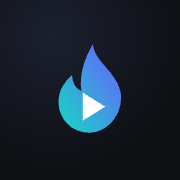
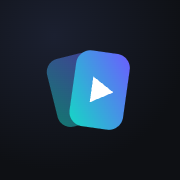
Owner-only TMDB key, Netflix privacy notice, new brand mark, decluttered UI
- Hosted mode: TMDB key comes only from TMDB_API_KEY; visitors can't see, set or
  replace it or force rebuilds; server refreshes catalog weekly and trending daily
- Privacy notice on the welcome screen and Sync from Netflix sheet: no Netflix
  credentials are asked for, seen or stored
- New logo (stacked cards + play) replaces the flame; two-weight wordmark; new icons
- Declutter: 3 tabs, Today's picks in the top bar, 3 action buttons (rewind only
  when there is something to undo), key legend removed
- About & credits sheet carries the TMDB attribution
- Tests: 56 passing

Changed region(s): [[0.25, 0.25, 0.7222, 0.75]]

diff --git a/public/index.html b/public/index.html
@@ -20,7 +20,7 @@
     <!-- Hosted mode: unlock with your access code -->
     <section class="welcome" id="lock" hidden>
       <div class="welcome-inner">
-        <div class="welcome-logo"><svg class="logo-mark" viewBox="0 0 24 24"><use href="#i-spark"/></svg><span>swipeflick</span></div>
+        <div class="welcome-logo"><svg class="logo-mark" viewBox="0 0 24 24"><use href="#i-spark"/></svg><span>Swipe<b>Flick</b></span></div>
         <p class="welcome-tagline">Enter your access code</p>
         <form class="welcome-actions" id="lock-form">
           <input class="lock-input" id="lock-code" type="password" autocomplete="current-password" placeholder="Access code" aria-label="Access code" required>
@@ -33,7 +33,7 @@
     <!-- Welcome / login (Tinder's gradient sign-in screen) -->
     <section class="welcome" id="welcome" hidden>
       <div class="welcome-inner">
-        <div class="welcome-logo"><svg class="logo-mark" viewBox="0 0 24 24"><use href="#i-spark"/></svg><span>swipeflick</span></div>
+        <div class="welcome-logo"><svg class="logo-mark" viewBox="0 0 24 24"><use href="#i-spark"/></svg><span>Swipe<b>Flick</b></span></div>
         <p class="welcome-tagline">Swipe right on your next binge.</p>
         <div class="welcome-actions">
           <button class="pill pill-white" id="welcome-netflix">Log in with Netflix</button>
@@ -46,13 +46,14 @@
           <p>A normal browser window opens on netflix.com. You sign in and pick your profile there — SwipeFlick never sees your password. It then reads your <b>Viewing activity</b> page and closes the window. Everything stays on this computer.</p>
           <p>Prefer not to? On netflix.com go to <b>Account → Profiles → (your profile) → Viewing activity → Download all</b>, then upload the <code>NetflixViewingHistory.csv</code> file here.</p>
         </details>
+        <p class="privacy-note" id="welcome-privacy"><b>Your Netflix password is never asked for, seen or stored by SwipeFlick.</b> You sign in on netflix.com itself. We keep only the titles and dates from your viewing activity, to tailor your recommendations. “Reset everything” in Profile deletes them.</p>
         <p class="welcome-fine">By swiping you agree to find something great to watch tonight.</p>
       </div>
     </section>
 
     <header class="topbar">
-      <button class="icon-btn" id="btn-reset" aria-label="Reset swipes" title="Reset swipes"><svg viewBox="0 0 24 24"><use href="#i-reset"/></svg></button>
-      <div class="logo"><svg class="logo-mark" viewBox="0 0 24 24"><use href="#i-spark"/></svg><span>swipeflick</span></div>
+      <button class="icon-btn" id="btn-daily" aria-label="Today's picks" title="Today's picks"><svg viewBox="0 0 24 24"><use href="#i-today"/></svg></button>
+      <div class="logo"><svg class="logo-mark" viewBox="0 0 24 24"><use href="#i-spark"/></svg><span>Swipe<b>Flick</b></span></div>
       <button class="icon-btn" id="btn-filters" aria-label="Discovery settings" title="Discovery settings"><svg viewBox="0 0 24 24"><use href="#i-sliders"/></svg></button>
     </header>
 
@@ -75,21 +76,16 @@
         <div class="actions" id="actions">
           <button class="act act-sm act-rewind" data-action="rewind" aria-label="Rewind" title="Rewind (Backspace)"><svg viewBox="0 0 24 24"><use href="#i-rewind"/></svg></button>
           <button class="act act-lg act-nope" data-action="nope" aria-label="Nope" title="Nope (←)"><svg viewBox="0 0 24 24"><use href="#i-nope"/></svg></button>
-          <button class="act act-sm act-super" data-action="super" aria-label="Must watch" title="Must watch (Enter)"><svg viewBox="0 0 24 24"><use href="#i-star"/></svg></button>
-          <button class="act act-lg act-like" data-action="like" aria-label="Like" title="Like (→)"><svg viewBox="0 0 24 24"><use href="#i-heart"/></svg></button>
           <button class="act act-sm act-lucky" data-action="lucky" aria-label="I'm feeling lucky" title="I'm feeling lucky (L)"><svg viewBox="0 0 24 24"><use href="#i-lucky"/></svg></button>
+          <button class="act act-lg act-like" data-action="like" aria-label="Like" title="Like (→)"><svg viewBox="0 0 24 24"><use href="#i-heart"/></svg></button>
           <div class="coach" id="coach" hidden>✨ <b>I'm feeling lucky</b> — one great pick, right now</div>
-        </div>
-        <div class="keys" aria-hidden="true">
-          <span><kbd>←</kbd> Nope</span><span><kbd>→</kbd> Like</span><span><kbd>↵</kbd> Must watch</span>
-          <span><kbd>↑</kbd> Open info</span><span><kbd>↓</kbd> Close info</span><span><kbd>Space</kbd> Next page</span>
-          <span><kbd>⌫</kbd> Rewind</span><span><kbd>L</kbd> Feeling lucky</span>
         </div>
       </section>
 
       <!-- Today's picks -->
       <section class="view view-daily" id="view-daily" hidden>
         <div class="view-head">
+          <button class="icon-btn" id="daily-back" aria-label="Back to swiping" title="Back"><svg viewBox="0 0 24 24" style="transform: rotate(90deg)"><use href="#i-down"/></svg></button>
           <h1>Today's picks</h1>
           <span class="muted" id="daily-date"></span>
         </div>
@@ -138,13 +134,15 @@
         <div class="panel">
           <h2>Catalog</h2>
           <p class="muted" id="catalog-info"></p>
-          <label class="field">
-            <span>TMDB API key <a href="https://www.themoviedb.org/settings/api" target="_blank" rel="noopener">get one free</a></span>
-            <input type="password" id="tmdb-key" placeholder="Paste your TMDB API key or read access token" autocomplete="off">
-          </label>
-          <div class="row-btns">
-            <button class="pill pill-brand pill-sm" id="tmdb-save">Save key</button>
-            <button class="pill pill-outline pill-sm" id="catalog-refresh">Refresh catalog</button>
+          <div id="tmdb-setup">
+            <label class="field">
+              <span>TMDB API key <a href="https://www.themoviedb.org/settings/api" target="_blank" rel="noopener">get one free</a></span>
+              <input type="password" id="tmdb-key" placeholder="Paste your TMDB API key or read access token" autocomplete="off">
+            </label>
+            <div class="row-btns">
+              <button class="pill pill-brand pill-sm" id="tmdb-save">Save key</button>
+              <button class="pill pill-outline pill-sm" id="catalog-refresh">Refresh catalog</button>
+            </div>
           </div>
           <div class="sync-status" id="catalog-status" hidden></div>
         </div>
@@ -153,13 +151,12 @@
           <button class="danger-row" id="reset-swipes">Reset all swipes</button>
           <button class="danger-row" id="reset-all">Reset everything &amp; log out of Netflix</button>
         </div>
-        <p class="footnote">Ratings from IMDb non-commercial datasets. Catalog data from TMDB. Not affiliated with Netflix, IMDb or Tinder.</p>
+        <p class="footnote"><button class="link" id="open-about">About &amp; credits</button></p>
       </section>
     </main>
 
     <nav class="tabbar" id="tabbar">
       <button class="tab on" data-tab="discover" aria-label="Discover"><svg viewBox="0 0 24 24"><use href="#i-spark"/></svg></button>
-      <button class="tab" data-tab="daily" aria-label="Today's picks"><svg viewBox="0 0 24 24"><use href="#i-today"/></svg></button>
       <button class="tab" data-tab="likes" aria-label="Likes"><svg viewBox="0 0 24 24"><use href="#i-likes"/></svg><span class="badge" id="likes-badge" hidden></span></button>
       <button class="tab" data-tab="profile" aria-label="Profile"><svg viewBox="0 0 24 24"><use href="#i-user"/></svg></button>
     </nav>
@@ -196,6 +193,23 @@
       </div>
     </div>
 
+    <!-- About & credits (data-source attribution) -->
+    <div class="sheet" id="sheet-about" role="dialog" aria-modal="true" aria-labelledby="about-title" hidden>
+      <div class="sheet-backdrop" data-close></div>
+      <div class="sheet-body">
+        <div class="sheet-head"><span></span><h2 id="about-title">About &amp; credits</h2><button class="link link-brand" data-close>Done</button></div>
+        <div class="about">
+          <h3>Catalog, posters and trending</h3>
+          <p>This product uses the TMDB API but is not endorsed or certified by TMDB. Titles, posters, cast, keywords and what is trending come from <a href="https://www.themoviedb.org" target="_blank" rel="noopener">The Movie Database</a>.</p>
+          <h3>Ratings</h3>
+          <p>IMDb ratings come from IMDb's <a href="https://developer.imdb.com/non-commercial-datasets/" target="_blank" rel="noopener">non-commercial datasets</a>, for personal use.</p>
+          <h3>Your data</h3>
+          <p>SwipeFlick never asks for, sees or stores your Netflix email or password. It keeps only the titles and dates from your viewing activity, plus your swipes. “Reset everything” in Profile deletes them.</p>
+          <p class="muted">SwipeFlick is not affiliated with Netflix, IMDb or TMDB.</p>
+        </div>
+      </div>
+    </div>
+
     <!-- Sync from Netflix on a phone: the bookmark -->
     <div class="sheet" id="sheet-sync" role="dialog" aria-modal="true" aria-labelledby="sync-title" hidden>
       <div class="sheet-backdrop" data-close></div>
@@ -211,7 +225,7 @@
           <a class="pill pill-outline pill-sm" id="sync-open" href="https://www.netflix.com/viewingactivity" target="_blank" rel="noopener">Open viewing activity</a>
         </div>
         <textarea class="sync-code" id="sync-code" readonly rows="3" aria-label="Bookmark address"></textarea>
-        <p class="muted sync-note">Your Netflix password stays on netflix.com. The bookmark only reads the viewing list and hands it to this app.</p>
+        <p class="privacy-note privacy-note-sheet"><b>We don't store your Netflix login.</b> The bookmark runs inside your own browser, where you are already signed in to Netflix. It reads only your viewing list (titles and dates) and hands that to SwipeFlick. Your email and password never leave netflix.com, and the app can't see them. “Reset everything” in Profile deletes the list.</p>
       </div>
     </div>
 
@@ -235,7 +249,7 @@
     <defs>
       <linearGradient id="g-brand" x1="0" y1="1" x2="1" y2="0"><stop offset="0" stop-color="#14d9c4"/><stop offset="1" stop-color="#6c5cff"/></linearGradient>
     </defs>
-    <symbol id="i-spark" viewBox="0 0 24 24"><path style="fill: var(--spark-fill, currentColor)" d="M12.6 1.8c.4 3 3 4.9 4.6 7.2 1.4 2 2 3.9 1.6 6.1-.6 3.5-3.6 6.4-7 6.4-3.8 0-6.8-3-6.8-6.8 0-2.6 1.3-4.5 3-6 .1 1.7.8 3 2.1 3.6-.6-3.6.7-7.3 2.5-10.5z"/><path style="fill: var(--spark-play, #0e1014)" d="M10.4 12.6v6.2l5-3.1z"/></symbol>
+    <symbol id="i-spark" viewBox="0 0 24 24"><g transform="rotate(-14 10 12)"><rect x="3.5" y="4" width="11" height="15.5" rx="3" style="fill: var(--spark-fill, currentColor)" opacity=".5"/></g><g transform="rotate(8 14 13)"><rect x="8" y="3.5" width="12" height="17" rx="3.2" style="fill: var(--spark-fill, currentColor)"/><path style="fill: var(--spark-play, #0e1014)" d="M12.2 9.2v5.8l4.9-2.9z"/></g></symbol>
     <symbol id="i-nope" viewBox="0 0 24 24"><path d="M6 6l12 12M18 6L6 18" fill="none" stroke="currentColor" stroke-width="3.2" stroke-linecap="round"/></symbol>
     <symbol id="i-heart" viewBox="0 0 24 24"><path fill="currentColor" d="M12 21s-7.5-4.6-9.6-9.2C.9 8.4 3 4.5 6.8 4.5c2.2 0 3.6 1.2 5.2 3 1.6-1.8 3-3 5.2-3 3.8 0 5.9 3.9 4.4 7.3C19.5 16.4 12 21 12 21z"/></symbol>
     <symbol id="i-star" viewBox="0 0 24 24"><path fill="currentColor" d="M12 2.8l2.8 5.9 6.4.8-4.7 4.4 1.2 6.4L12 17.2l-5.7 3.1 1.2-6.4L2.8 9.5l6.4-.8z"/></symbol>

diff --git a/public/app.css b/public/app.css
@@ -34,6 +34,8 @@ a { color: var(--brand-a); }
 /* ---------- top bar ---------- */
 .topbar { display: flex; align-items: center; justify-content: space-between; padding: calc(10px + env(safe-area-inset-top)) 14px 6px; flex: none; }
 .logo, .welcome-logo { display: flex; align-items: center; gap: 4px; font-weight: 800; font-size: 26px; letter-spacing: -1px; }
+.logo span b { font-weight: 800; }
+.logo span, .welcome-logo span { font-weight: 500; }
 .logo span { background: var(--brand); -webkit-background-clip: text; background-clip: text; color: transparent; }
 .logo-mark { width: 30px; height: 30px; color: var(--brand-a); }
 .logo .logo-mark, .tab.on[data-tab="discover"] svg { --spark-fill: url(#g-brand); }
@@ -119,6 +121,8 @@ h2 { font-size: 13px; text-transform: uppercase; letter-spacing: .8px; color: va
 .act:hover { transform: scale(1.08); }
 .act:active, .act.pressed { transform: scale(.9); }
 .act:disabled { opacity: .35; pointer-events: none; }
+.act-rewind { position: absolute; left: 16px; top: 50%; margin-top: -11px; width: 44px; height: 44px; }
+.act-rewind:disabled { opacity: 0; } /* only there when there is something to undo */
 .act-rewind { color: var(--rewind); }
 .act-nope { color: var(--nope); }
 .act-super { color: var(--super); }
@@ -131,13 +135,12 @@ h2 { font-size: 13px; text-transform: uppercase; letter-spacing: .8px; color: va
 .act-like.lit { background: var(--like); }
 .act-lucky.lit { background: var(--lucky); }
 .coach {
-  position: absolute; bottom: calc(100% - 4px); right: 4px; background: var(--lucky); color: #fff; font-size: 13px; padding: 8px 12px;
+  position: absolute; bottom: calc(100% - 4px); left: 0; right: 0; margin: 0 auto; width: max-content; background: var(--lucky); color: #fff; font-size: 13px; padding: 8px 12px;
   border-radius: 10px; box-shadow: 0 6px 20px rgba(0, 0, 0, .4); animation: bob 1.6s ease-in-out infinite; white-space: nowrap; z-index: 10;
 }
-.coach::after { content: ""; position: absolute; top: 100%; right: 22px; border: 7px solid transparent; border-top-color: var(--lucky); }
+.coach::after { content: ""; position: absolute; top: 100%; left: 50%; margin-left: -7px; border: 7px solid transparent; border-top-color: var(--lucky); }
 @keyframes bob { 50% { transform: translateY(-4px); } }
 
-.keys { display: none; }
 
 /* ---------- radar (loading / out of cards) ---------- */
 .radar { position: absolute; inset: 0; display: flex; flex-direction: column; align-items: center; justify-content: center; text-align: center; padding: 20px; }
@@ -303,7 +306,6 @@ input[role="switch"]:focus-visible, .pill:focus-visible, .act:focus-visible, .ta
   body { background: radial-gradient(circle at 50% -20%, #1a1f2b, var(--bg) 60%); }
   .app { max-width: 460px; }
   .view-discover { padding: 0 0 0; }
-  .keys { display: flex; flex-wrap: wrap; justify-content: center; gap: 6px 14px; padding: 2px 0 10px; font-size: 11px; color: var(--muted); text-transform: uppercase; letter-spacing: .6px; font-weight: 700; }
   kbd { display: inline-block; min-width: 20px; padding: 1px 5px; border-radius: 4px; background: var(--surface-2); color: var(--text); font: inherit; text-align: center; margin-right: 3px; box-shadow: 0 2px 0 #000; }
 }
 @media (max-height: 640px) {
@@ -331,3 +333,10 @@ input[role="switch"]:focus-visible, .pill:focus-visible, .act:focus-visible, .ta
 .sync-code { width: 100%; box-sizing: border-box; margin-top: 12px; border-radius: 10px; border: 1px solid var(--line); background: var(--surface-2); color: var(--muted); font: 11px/1.3 ui-monospace, monospace; padding: 8px; resize: none; }
 .sync-note { font-size: 13px; }
 #lock { z-index: 60; }
+.privacy-note { margin: 18px 0 0; padding: 10px 14px; border-radius: 12px; background: rgba(0, 0, 0, .22); font-size: 13px; line-height: 1.45; text-align: left; }
+.privacy-note-sheet { background: var(--surface-2); color: var(--text); margin: 14px 0 0; }
+.view-daily .view-head { justify-content: flex-start; }
+.view-daily .view-head h1 { flex: 1; margin: 0; }
+.about h3 { margin: 16px 0 4px; font-size: 14px; text-transform: uppercase; letter-spacing: .5px; color: var(--muted); }
+.about p { margin: 0 0 8px; line-height: 1.5; }
+.about a { color: var(--brand-a); }

diff --git a/public/app.js b/public/app.js
@@ -235,7 +235,7 @@ function paintDrag(el, dx, dy, grabTop) {
   $('.stamp-super', el).style.opacity = sup;
   $('.act-like').classList.toggle('lit', !sup && like > 0.6);
   $('.act-nope').classList.toggle('lit', !sup && nope > 0.6);
-  $('.act-super').classList.toggle('lit', sup > 0.6);
+  $('.act-super')?.classList.toggle('lit', sup > 0.6);
   const next = S.queue[1] && cardEl(S.queue[1].id);
   if (next) {
     next.style.transition = 'none';
@@ -717,7 +717,10 @@ function renderProfile() {
 
   $('#catalog-info').textContent = st.catalog.source === 'tmdb'
     ? `Netflix ${REGIONS[st.settings.region] || st.settings.region} via TMDB: ${st.catalog.count} titles, updated ${timeAgo(new Date(st.catalog.builtAt).toISOString())}.`
-    : `Built-in sample: ${st.catalog.count} Netflix originals with IMDb ratings. Add a free TMDB API key to swipe everything on Netflix in your country, with posters.`;
+    : st.features.tmdbKeyEditable
+      ? `Built-in sample: ${st.catalog.count} Netflix originals with IMDb ratings. Add a free TMDB API key to swipe everything on Netflix in your country, with posters.`
+      : `The full Netflix catalog is still loading. Until then you can swipe a sample of ${st.catalog.count} Netflix originals.`;
+  $('#tmdb-setup').hidden = !st.features.tmdbKeyEditable;
   $('#tmdb-key').placeholder = st.settings.hasTmdbKey ? '•••••••• (saved — paste a new one to replace)' : 'Paste your TMDB API key or read access token';
   renderJobs();
 }
@@ -759,6 +762,7 @@ $('#catalog-refresh').addEventListener('click', async () => {
   await api.post('/api/catalog/refresh');
   startPolling();
 });
+$('#open-about').addEventListener('click', () => openSheet('#sheet-about'));
 $('#reset-swipes').addEventListener('click', resetSwipes);
 $('#reset-all').addEventListener('click', resetAll);
 
@@ -969,7 +973,8 @@ document.addEventListener('click', (e) => {
   else if (a === 'reset') resetSwipes();
 });
 $('#btn-filters').addEventListener('click', () => openSheet('#sheet-filters'));
-$('#btn-reset').addEventListener('click', resetSwipes);
+$('#btn-daily').addEventListener('click', () => showTab('daily'));
+$('#daily-back').addEventListener('click', () => showTab('discover'));
 
 document.addEventListener('keydown', (e) => {
   if (e.target.closest('input, select, textarea') || e.metaKey || e.ctrlKey || e.altKey) return;

diff --git a/test/e2e.test.js b/test/e2e.test.js
@@ -78,7 +78,7 @@ test("I'm feeling lucky shows a single pick that can be saved", { skip }, async 
 });
 
 test("Today's picks tab lists five titles and swiping one removes it", { skip }, async () => {
-  await page.locator('[data-tab="daily"]').click();
+  await page.locator('#btn-daily').click();
   await page.locator('#daily-grid .like-card').first().waitFor();
   assert.equal(await page.locator('#daily-grid .like-card').count(), 5);
   const name = await page.locator('#daily-grid .lc-title').first().innerText();
@@ -109,8 +109,17 @@ test('settings sheet filters the deck to series', { skip }, async () => {
   assert.equal(deck, 'series');
 });
 
+test('About & credits carries the TMDB attribution', { skip }, async () => {
+  await page.locator('[data-tab="profile"]').click();
+  await page.locator('#open-about').click();
+  assert.match(await page.locator('#sheet-about').innerText(), /uses the TMDB API but is not endorsed or certified by TMDB/);
+  await page.locator('#sheet-about [data-close]').last().click();
+  await page.locator('[data-tab="discover"]').click();
+});
+
 test('reset swipes clears the counters', { skip }, async () => {
-  await page.locator('#btn-reset').click();
+  await page.locator('#btn-filters').click();
+  await page.locator('#sheet-filters [data-action="reset"]').click();
   await page.waitForTimeout(700);
   const s = await stats();
   assert.deepEqual([s.likes, s.supers, s.nopes], [0, 0, 0]);
@@ -157,7 +166,9 @@ test('phone flow: unlock, save the bookmark, run it on Netflix, land back with h
 
     await p.locator('#welcome').waitFor({ state: 'visible' });
     assert.match(await p.locator('#welcome-netflix').innerText(), /sync from netflix/i);
+    assert.match(await p.locator('#welcome-privacy').innerText(), /password is never asked for, seen or stored/i);
     await p.locator('#welcome-netflix').click();
+    assert.match(await p.locator('#sheet-sync .privacy-note').innerText(), /don't store your Netflix login/i);
     const bookmark = await p.locator('#sync-code').inputValue();
     assert.match(bookmark, /^javascript:/);
     assert.ok(!/[\r\n]/.test(bookmark), 'a bookmark has to survive being one line');

diff --git a/server.js b/server.js
@@ -148,7 +148,7 @@ function publicState() {
   const { tmdbKey, ...settings } = state.settings;
   return {
     settings: { ...settings, hasTmdbKey: Boolean(tmdbKey) },
-    features: { browserLogin: !HOSTED }, // the Playwright login needs a desktop; hosted/phone mode uses the bookmarklet
+    features: { browserLogin: !HOSTED, tmdbKeyEditable: !HOSTED }, // hosted: the owner's key comes from TMDB_API_KEY; visitors never see or enter one
     onboarded: state.onboarded,
     catalog: { source: catalog.source, count: catalog.titles.filter((t) => t.onNetflix !== false).length, builtAt: catalog.builtAt },
     history: state.history && {
@@ -270,7 +270,7 @@ const routes = {
     if (['both', 'movie', 'series'].includes(body.types)) next.types = body.types;
     if (Number.isFinite(body.minRating)) next.minRating = Math.max(0, Math.min(9.5, body.minRating));
     if (typeof body.region === 'string' && /^[A-Z]{2}$/.test(body.region)) next.region = body.region;
-    if (typeof body.tmdbKey === 'string') next.tmdbKey = body.tmdbKey.trim();
+    if (typeof body.tmdbKey === 'string' && !HOSTED) next.tmdbKey = body.tmdbKey.trim();
     const catalogChanged = next.tmdbKey !== state.settings.tmdbKey || next.region !== state.settings.region;
     state.settings = next;
     saveState(state);
@@ -292,6 +292,7 @@ const routes = {
   },
 
   'POST /api/catalog/refresh': () => {
+    if (HOSTED) return [403, { error: 'The catalog is refreshed automatically every week.' }];
     rebuildCatalog({ force: true });
     return { ok: true };
   },
@@ -369,4 +370,9 @@ server.listen(PORT, HOST, () => {
   if (state.settings.tmdbKey && catalog.source === 'demo') rebuildCatalog();
   else refreshTrendingNow();
 });
-setInterval(() => refreshTrendingNow().catch(() => {}), 6 * 3600000).unref();
+const WEEK = 7 * 86400000;
+setInterval(() => {
+  refreshTrendingNow().catch(() => {});
+  // Nobody taps "Refresh" in hosted mode, so the server re-reads Netflix's catalog itself once a week.
+  if (state.settings.tmdbKey && catalog.source === 'tmdb' && catalog.builtAt && Date.now() - catalog.builtAt > WEEK) rebuildCatalog({ force: true });
+}, 6 * 3600000).unref();

diff --git a/test/hosted.test.js b/test/hosted.test.js
@@ -1,5 +1,6 @@
 import { test, before, after } from 'node:test';
 import assert from 'node:assert/strict';
+import fs from 'node:fs';
 import { startServer, rawGet } from './helpers.js';
 
 const CODE = 'correct-horse-battery';
@@ -80,5 +81,22 @@ test('ALLOWED_HOSTS pins the hosted domain', async () => {
   try {
     assert.equal(await rawGet(s.base, '/', 'swipeflick.example.com'), 200);
     assert.equal(await rawGet(s.base, '/', 'evil.example'), 403);
+  } finally { s.stop(); }
+});
+
+test('hosted visitors cannot see, set or replace the owner\'s TMDB key, or force catalog rebuilds', async () => {
+  const s = await startServer({ ACCESS_TOKEN: CODE, TMDB_API_KEY: 'owner-key-123' });
+  try {
+    const headers = { cookie: cookieFrom(await s.call('POST', '/api/login', { code: CODE })) };
+    const state = (await s.call('GET', '/api/state', undefined, headers)).json;
+    assert.equal(state.features.tmdbKeyEditable, false);
+    assert.equal(state.settings.hasTmdbKey, true, 'the owner key is in use');
+    assert.ok(!JSON.stringify(state).includes('owner-key-123'), 'and never sent to the browser');
+    await s.call('POST', '/api/settings', { tmdbKey: 'visitor-key' }, headers);
+    const after = await s.call('GET', '/api/state', undefined, headers);
+    assert.equal(after.json.settings.hasTmdbKey, true);
+    assert.equal((await s.call('POST', '/api/catalog/refresh', {}, headers)).status, 403);
+    const saved = JSON.stringify(JSON.parse(fs.readFileSync(`${s.dir}/state.json`, 'utf8')));
+    assert.ok(!saved.includes('visitor-key'));
   } finally { s.stop(); }
 });

diff --git a/public/sw.js b/public/sw.js
@@ -3,7 +3,7 @@
 //  - posters (TMDB images): cached the first time they are seen
 //  - /api GET: network first, last good answer when offline
 //  - everything else (POST swipes, etc.) goes straight to the network
-const VERSION = 'v2';
+const VERSION = 'v4';
 const SHELL = `swipeflick-shell-${VERSION}`;
 const IMAGES = `swipeflick-images-${VERSION}`;
 const API = `swipeflick-api-${VERSION}`;

diff --git a/README.md b/README.md
@@ -55,7 +55,7 @@ SwipeFlick is a PWA: open it in your phone's browser and **Add to Home Screen** 
 
    Keep `/data` on a persistent volume (it holds your swipes, history and caches).
 2. **Set `ACCESS_TOKEN`.** Without it the app only answers on localhost. With it, the whole API (your history, swipes and TMDB key) needs a login cookie. Your phone asks for the code once. `https://your-app/?t=<code>` also works as a one-tap private link. Wrong codes are rate limited. Optionally pin your domain with `ALLOWED_HOSTS=swipeflick.example.com`.
-3. **Add a free TMDB key** (`TMDB_API_KEY`, or in *Profile → Catalog*). That's what brings real Netflix posters, the full catalog and the trending list.
+3. **Add one free TMDB key, as the owner, once** (`TMDB_API_KEY` on the host). That's what brings real Netflix posters, the full catalog and the trending list. In hosted mode visitors never see a key field and can't change it. The server builds the catalog once, keeps it on the volume, and refreshes it itself every week (trending daily).
 4. **Sync your Netflix history from the phone**, no laptop and no CSV: *Sync from Netflix* shows a one-time bookmark to save. Then open *netflix.com/viewingactivity*, sign in, and tap the bookmark. It reads your list in your own signed-in browser and brings it back to SwipeFlick. Your password never leaves Netflix.
 
 > **iPhone note:** save the bookmark in **Safari** (Chrome on iOS doesn't run bookmarklets). Android: Chrome works; type the bookmark's name in the address bar and pick it.
